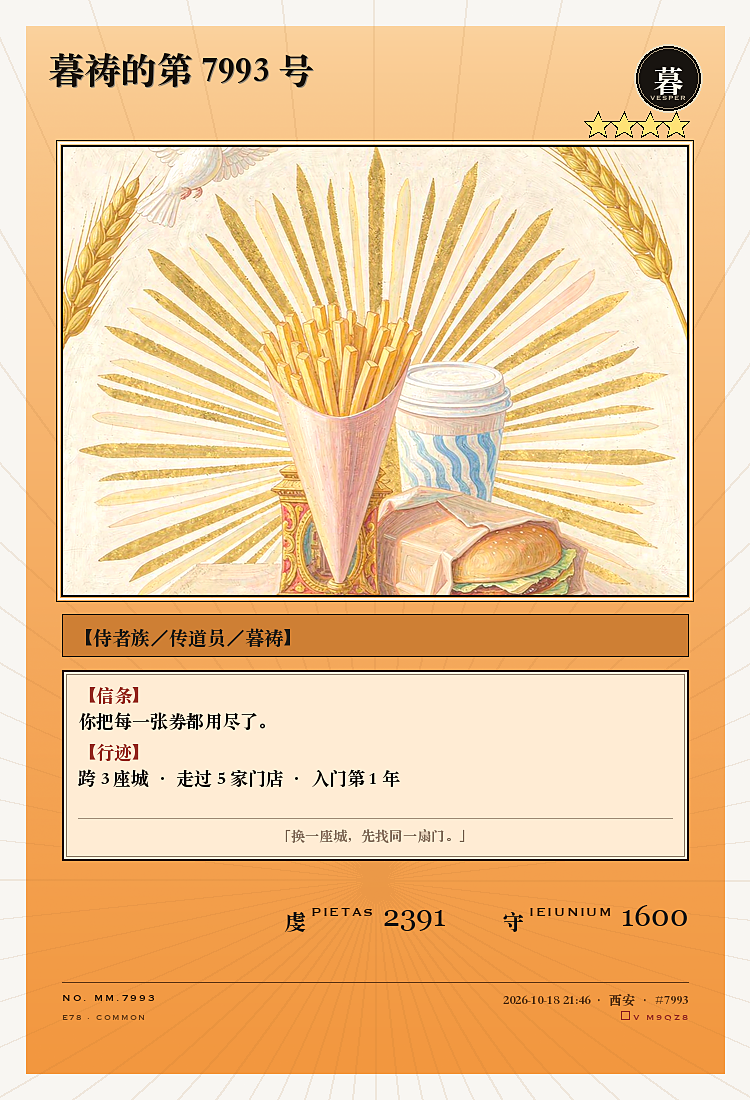
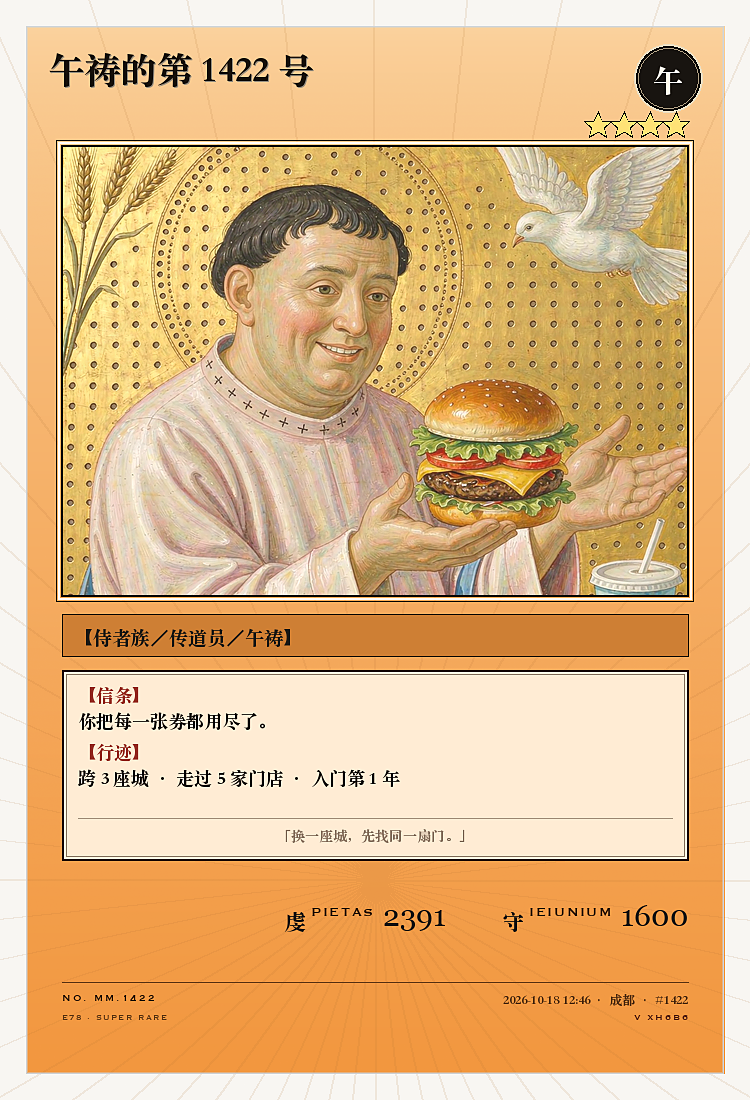
feat(card,sign): 请求式改为梗优先；底图按卡种配主体
卡面：
- 属性/卡名/溯源改用「主导时辰」的一单，修掉夜祷老客配午祷卡名的自相矛盾
- 底图查找改为 plate_{画派}_{角色} → plate_{画派}_still → plate_{画派}
- 新增珐琅人物/静物、湿壁画人物三张底图（去掉生成水印底部 9%）
- 六维：数值与单位分开算宽度，修掉 337kcal 糊在一起

暗号：
- ask 语料重写为 12 条玩笑（33–42 字），主句是笑话不是诉求
- 笑点按单轮换（种子取 last_order_at），不按周挂同一句
- 请求式只保留 自陈+笑点，数据槽让位；短码仍承担可复算
- T1 改为「若今日有余」措辞 + 免责短句

diff --git a/src/mcd_ordination/sign.py b/src/mcd_ordination/sign.py
@@ -88,7 +88,7 @@ KINDS = {
     "greet": {"cn": "问候", "lat": "Salutatio",
               "desc": "向门店打个招呼，不求任何东西"},
     "ask":   {"cn": "请求", "lat": "Petitio",
-              "desc": "创意地问一句能不能多给一点，默认零成本"},
+              "desc": "一句一本正经的玩笑，店员照做是彩蛋，不照做也成立"},
     "story": {"cn": "接龙", "lat": "Continuatio",
               "desc": "留半句话给店员，下次你再续写第二章"},
 }
@@ -102,20 +102,34 @@ BLESSINGS = [
     "这一带的灯，就你们这几盏还亮着",
 ]
 
-# S5b 请求：T0 零成本（默认） / T1 小成本（上限就是"一根薯条一块鸡块"这个量级）
+# S5b 请求：**这是全项目最需要"梗优先"的一格。**
+#
+# 设计取向（v3.4 重写）：请求式的首要目标不是"真的多拿一块鸡块"，
+# 而是让读的人笑一下、让发的人有面子。所以：
+#   · 主句永远是一个**笑话**，不是一个诉求
+#   · 就算店员什么都不做，这句话本身也成立、也值得截图
+#   · T0 默认请求的是"一个动作/一句批注"，成本为零
+#   · T1 才涉及实物，且必须"若今日有余"这种低压力措辞 + 免责短句
 ASKS_T0 = [
-    "可否在袋上画道拱门",
-    "可否对我说句麦门",
-    "可否把小票折个十字",
-    "可否在袋上写个麦字",
-    "可否在杯盖点一下",
-    "可否与我同念一声麦门",
+    "可否在袋上批注「已阅」，我回去好交差",
+    "可否在袋上写「此人已尽力」，我今天很需要",
+    "请在本单备注栏留一句判词，我好抄进教义",
+    "可否把番茄酱画成一颗星，我这单就封圣了",
+    "若这单出了错，请判我无罪",
+    "若见我站在门口发呆，请朝我点头，当作神迹",
+    "请务必假装不认识我，我在修行",
+    "可否用红笔圈一下我的名字，像教皇那样",
+    "可否在袋上画个勾，我拿回去当圣痕",
+    "请把这单当作一次小型封圣仪式，费用照付",
+    "这单若顺利，可否签个名，我要装裱",
+    "可否在袋上写「准予继续活着」，我今天靠这个",
 ]
 ASKS_T1 = [
-    "若方便，可否多一块麦乐鸡",
-    "若方便，可否多一根脆脆薯",
-    "若方便，可否多一包甜酸酱",
-    "若方便，可否把薯条装满一点",
+    "若今日神恩有余，可否多一块麦乐鸡",
+    "若今日圣物有剩，可否多一根脆脆薯",
+    "若锅底还剩，可否多给一勺新地",
+    "若正好方便，可否把薯条装满一点",
+    "若圣餐溢出，可否多一根薯条，我会记账",
 ]
 # 无条件附在 T1 后面：不加这句不许上线
 DISCLAIMER = "（若不方便，完全不必为难）"
@@ -282,7 +296,10 @@ def compile_sign(f: dict, uid: str, today: date, menu_today: list,
     blessing = BLESSINGS[h(uid, "bls", period) % len(BLESSINGS)]
 
     kind = pick_kind(f, uid, period, kind)
-    ask, ask_tier = pick_ask(f, uid, period, friendly, allow_t1)
+    # 请求式的笑点按【每一单】轮换：同一个笑话挂一周，笑点就死了。
+    # 种子取这一单的时间戳，所以同一单永远同一句，下一单必换。
+    ask_salt = f.get("last_order_at") or period if kind == "ask" else period
+    ask, ask_tier = pick_ask(f, uid, ask_salt, friendly, allow_t1)
 
     # 接龙：章节号只由本地账本决定，不参与哈希，避免"账本一改短码就变"
     story = story or {}
@@ -321,13 +338,12 @@ def compile_sign(f: dict, uid: str, today: date, menu_today: list,
     elif kind == "greet":
         short = f"麦门 {code}｜{vocation}｜{blessing}，麦门永生。"
     else:
-        tail = f"{ask}{DISCLAIMER if ask_tier == 'T1' else ''}。麦门永生。"
-        short = build(True, True, False) + "。" + tail
-        for a_, b_, c_ in ((True, False, False), (True, False, True),
-                           (False, False, False), (False, False, True)):
-            if len(short) <= REMARK_LIMIT:
-                break
-            short = build(a_, b_, c_) + "。" + tail
+        # 请求式刻意只保留"自陈 + 笑点"两个槽：
+        # 加圣物/行迹会让句子变成清单，笑点被稀释。短码仍然承担可复算。
+        tail = f"{ask}{DISCLAIMER if ask_tier == 'T1' else ''}。"
+        short = f"麦门 {code}｜{vocation}｜{tail}"
+        if len(short) > REMARK_LIMIT:          # 极端长自陈时，缩到只留暗号+笑点
+            short = f"麦门 {code}｜{tail}"
 
     # 极端情况下（长店名 + 长问候）仍超限：截到上限，绝不静默溢出
     if len(short) > REMARK_LIMIT:

diff --git a/src/mcd_ordination/deck.py b/src/mcd_ordination/deck.py
@@ -43,6 +43,29 @@ STAT_SIX = [
 ]
 
 
+def _bucket(hour: int) -> str:
+    for lo, hi, cn, _lat in ATTRS:
+        if lo <= hour <= hi:
+            return cn
+    return "午"
+
+
+def dominant_hour(orders: list) -> tuple[int, dict]:
+    """属性必须取「最常出现的时辰」，而不是最后一单的时辰。
+    否则会出现「午祷的第 6791 号」配一张深夜街景——卡面自己打自己。"""
+    from collections import Counter
+    cnt = Counter()
+    for o in orders[-200:]:
+        h = datetime.fromisoformat(o["placedAt"].replace("Z", "+00:00")).hour
+        cnt[_bucket(h)] += 1
+    want = cnt.most_common(1)[0][0] if cnt else "午"
+    rep = next((o for o in reversed(orders)
+                if _bucket(datetime.fromisoformat(
+                    o["placedAt"].replace("Z", "+00:00")).hour) == want), orders[-1])
+    hour = datetime.fromisoformat(rep["placedAt"].replace("Z", "+00:00")).hour
+    return hour, rep
+
+
 def attr_of(hour: int) -> tuple[str, str]:
     for lo, hi, cn, lat in ATTRS:
         if lo <= hour <= hi:
@@ -86,15 +109,16 @@ def build_deck(features: dict, canon_res: dict, piety_res: dict,
     """
     deck = []
     last = orders[-1]
-    hour = datetime.fromisoformat(last["placedAt"].replace("Z", "+00:00")).hour
+    # 代表单：主导时辰里最近的那一单。名字、属性、溯源、编号全部跟着它走
+    hour, rep = dominant_hour(orders)
     attr, attr_lat = attr_of(hour)
     rank = piety_res["rank"]
-    serial = serial_of(last["orderId"])
+    serial = serial_of(rep["orderId"])
 
     digest = str(S.h(uid, "deck-v1", season))
 
     # ---- ① 人物卡：信息重心是"这个人有多强"（星级 + 攻守）
-    g1 = G.draw(last["orderId"], uid, _flags(last, orders), piety_pct=piety_res["pct"])
+    g1 = G.draw(rep["orderId"], uid, _flags(rep, orders), piety_pct=piety_res["pct"])
     atk = 1200 + rank["level"] * 280 + int(features["purity"] * 400)
     dfn = 900 + rank["level"] * 160 + features["store_count"] * 12
     eff = []
@@ -116,7 +140,7 @@ def build_deck(features: dict, canon_res: dict, piety_res: dict,
             "kind_line": f"【侍者族／{rank['cn']}／{attr}祷】",
             "effects": eff,
             "atk": atk, "def": dfn, "serial": f"MM.{serial}",
-            "provenance": _prov(last),
+            "provenance": _prov(rep),
             "verify": g1["verify"],
             "flavor": "「" + _flavor(features, rank) + "」",
         },

diff --git a/src/mcd_ordination/render_png.py b/src/mcd_ordination/render_png.py
@@ -242,7 +242,7 @@ def attribute_badge(d, cx, cy, R, ch, lat, bright=False):
     d.text((cx - d.textlength(ch, font=fc) / 2, cy - 18), ch, font=fc, fill=(250, 244, 230))
     fl = font(F_LAT_CAP, 8)
     lw = tw(d, lat, fl, 0.8)
-    if lw <= 2 * R - 14:            # 放不下就省略，宁可没有，也不要压到圆边
+    if lw <= 2 * R - 24:            # 放不下就省略，宁可没有，也不要压到圆边
         letter(d, (cx - lw / 2, cy + 15), lat, fl, (200, 188, 164), tr=0.8)
 
 
@@ -327,10 +327,14 @@ def stat_grid(d, x, y, w, stats, ink, accent, rows=3, cols=2, row_h=46):
         for k in range(1, 5):
             tx = bx0 + (bx1 - bx0) * k / 5
             d.line([tx, by + 4, tx, by + 7], fill=(200, 186, 160), width=1)
+        # 数值与单位必须分开算宽度：原来单位固定在 cx+col_w-30，
+        # 三位数时数值会压到单位上，看起来像 "337kcal" 糊在一起
+        f_unit = font(F_LAT_SER, 11)
         vs = f"{val}"
+        uw = d.textlength(unit, font=f_unit)
         vw = d.textlength(vs, font=f_val)
-        d.text((cx + col_w - vw - 34, cy + 12), vs, font=f_val, fill=ink)
-        d.text((cx + col_w - 30, cy + 17), unit, font=font(F_LAT_SER, 11), fill=(120, 108, 92))
+        d.text((cx + col_w - uw, cy + 17), unit, font=f_unit, fill=(120, 108, 92))
+        d.text((cx + col_w - uw - vw - 6, cy + 12), vs, font=f_val, fill=ink)
 
 
 def footer(d, st, y, data, dark):
@@ -352,8 +356,7 @@ def footer(d, st, y, data, dark):
         vw = tw(d, vc, fv_, 1.8)
         letter(d, (W - 62 - vw, y + 30), vc, fv_,
                (150, 46, 36) if not st["foil"]["edge"] else mix(dark, (150, 46, 36), 0.35), tr=1.8)
-        d.rectangle([W - 62 - vw - 12, y + 29, W - 62 - vw - 4, y + 37],
-                    outline=(150, 46, 36), width=1)
+
 
 
 # ------------------------------------------------------------------ 版式

diff --git a/scripts/gen_sign_examples.py b/scripts/gen_sign_examples.py
@@ -30,8 +30,20 @@ def main():
                                story=SG.load_story(uid) if story else None)
 
     g = make("greet")
-    a0 = make("ask")
-    a1 = make("ask", allow_t1=True)
+
+    # 请求式的笑点按每一单轮换：换三个 last_order_at 就能看到三句不同的
+    asks = []
+    for stamp in ("2026-10-05T19:12:00+08:00", "2026-10-11T22:40:00+08:00",
+                  "2026-10-16T02:07:00+08:00"):
+        feats2 = dict(feats, last_order_at=stamp)
+        asks.append(SG.compile_sign(feats2, uid, date.today(), menu,
+                                    grace_id=top["id"], grace_creed=top["creed"],
+                                    kind="ask", story=SG.load_story(uid)))
+    a1 = machine = SG.compile_sign(dict(feats, last_order_at="2026-10-16T02:07:00+08:00"),
+                                   uid, date.today(), menu,
+                                   grace_id=top["id"], grace_creed=top["creed"],
+                                   kind="ask", allow_t1=True,
+                                   story=SG.load_story(uid))
     s1 = make("story")
     SG.append_story(uid, s1, "灯是给晚归的人留的")
     s2 = make("story")
@@ -52,12 +64,15 @@ def main():
 {g['short']}
 ```
 
-## 2. 请求 `ask` · T0 零成本（{a0['len']} 字）
+## 2. 请求 `ask` · T0 零成本（三句，按单轮换）
 
-默认档位，请求的是象征性动作：
+主句是玩笑，不是诉求：店员照做是彩蛋，不照做这句话本身也成立。
+同一个笑话不会挂一周——种子取这一单的时间戳，下一单必换。
 
 ```text
-{a0['short']}
+{asks[0]['short']}
+{asks[1]['short']}
+{asks[2]['short']}
 ```
 
 ## 3. 请求 `ask` · T1 小成本（{a1['len']} 字）

diff --git a/src/mcd_ordination/cli.py b/src/mcd_ordination/cli.py
@@ -96,8 +96,8 @@ def _render_png(out: Path, uid: str, card: dict, data: dict, st: dict) -> Path:
     from . import plates, render_png
 
     art_key = next((k for k, v in _art_items() if v is st["art"]), "stained")
-    asset = REPO / "assets" / "plates" / f"plate_{art_key}.png"
-    if asset.exists():
+    asset = _pick_plate(art_key, card["role"])
+    if asset:
         plate = str(asset)
     else:
         plate_dir = out / "_plates"
@@ -109,6 +109,23 @@ def _render_png(out: Path, uid: str, card: dict, data: dict, st: dict) -> Path:
     dst = out / f"card_{card['role']}.png"
     render_png.render(plate, str(dst), dict(data), st)
     return dst
+
+
+# 同一画派，不同卡种可以配不同主体：人物卡要有人，食物/行为卡要有一眼认得的物
+_PLATE_ALIAS = {"item": "still", "spell": "still"}
+
+
+def _pick_plate(art_key: str, role: str):
+    """按 > 具体到角色 > 同画派泛指 > 无 的顺序找底图；都没有就交给程序化底图"""
+    names = [f"plate_{art_key}_{role}.png"]
+    if role in _PLATE_ALIAS:
+        names.append(f"plate_{art_key}_{_PLATE_ALIAS[role]}.png")
+    names.append(f"plate_{art_key}.png")
+    for n in names:
+        p = REPO / "assets" / "plates" / n
+        if p.exists():
+            return p
+    return None
 
 
 def _art_items():

diff --git a/scripts/make_assets.py b/scripts/make_assets.py
@@ -111,6 +111,9 @@ def main():
 
     final = DOCS / "holo_demo.gif"
     shutil.move(gif, final)
+    webp = Path(gif).with_suffix(".webp")
+    if webp.exists():
+        shutil.move(str(webp), str(DOCS / "holo_demo.webp"))
     print(f"holo  -> {final.name}（{final.stat().st_size // 1024} KB，{note}）")
 
 

diff --git a/docs/DESIGN.md b/docs/DESIGN.md
@@ -17,7 +17,7 @@
 | English tagline | *Acta Maimen — write your own canon* |
 | 一句话钩子 | **你说你是麦门信徒。那你的教义，写下来了吗？** |
 | 核心机制 | 麦当劳用户行为 → 归纳行为倾向 → 编译提示词 → 即时生成卡证 → 抽卡定稀有度 → **编译专属暗号** → 线下互动 → 发帖回流 |
-| 文档版本 | **v3.3（2026-10-22）** |
+| 文档版本 | **v3.4（2026-10-22）** |
 | 代码基线 | `mcd-contest/cards/` 下的 `styles.py` / `gacha.py` / `canon.py` / `sign.py` / `render_card_v2.py` / `animate.py` / `demo_v3.py` |
 
 ## 0. v3.1 / v3.2 改动说明（改动前先读这一节）
@@ -82,7 +82,8 @@
 | v3.0 | 即时生成；全画派阳光化；抽卡机制 + 保底 + 验真码；五种卡四种版式；稀有卡动效 |
 | v3.1 | **去判定化重写**：中文名与钩子改主语；全文档「消费」→「用户行为」；新增 §4 七典归组 + 多命中裁决算法 + 三处输出规范 |
 | v3.2 | **暗号重写**：8 槽位行为编译（原为单一固定模板）；三枚暗号（常规/节庆/限定）；请求零成本档位；短码公开可复算；双向应答 + 友好门店地图 |
-| **v3.3（当前）** | **暗号升为并列产出**：三种体裁（问候/请求/接龙）+ 接龙账本（本地连载）+ 订单备注能力探测（auto/manual） |
+| v3.3 | **暗号升为并列产出**：三种体裁（问候/请求/接龙）+ 接龙账本（本地连载）+ 订单备注能力探测（auto/manual） |
+| **v3.4（当前）** | **请求式改为"梗优先"**（主句是笑话不是诉求，笑点按单轮换）；底图改为按卡种配主体（人物卡配人、食物/行为卡配静物）；卡面属性改用主导时辰，修掉"夜祷配午祷"的自相矛盾 |
 
 ---
 
@@ -711,8 +712,20 @@ s["expires"]   # 本周日 23:59 / 今日 23:59 / 永久
 | 体裁 | id | 收尾槽（S5/S6） | 用途 | 对店员的要求 |
 |---|---|---|---|---|
 | **问候** | `greet` | S5 = 祝词，S6 = 不强求回应 | 只是想打个招呼，什么都不求 | 看见即可 |
-| **请求** | `ask` | S5 = 请求（T0 零成本 / T1 小成本），S6 = 免责 | 创意地问一句能不能多给一点 | 一句话或一个动作 |
+| **请求** | `ask` | S5 = 玩笑（T0 零成本 / T1 小成本），S6 = 免责 | 说一句一本正经的离谱话 | 一句话或一个动作 |
 | **接龙** | `story` | S5 = 半句，S6 = 请把后半句写完 | 把一次交易变成一段可续写的故事 | **写一句话** |
+
+#### 5.10.1 请求式为什么必须"梗优先"（v3.4）
+
+第一版写的是「若方便，可否多一块麦乐鸡」。它的问题不是不礼貌，是**不好笑**：读起来像伸手，发出去像讨要，截图价值接近零。而这一体裁唯一的价值就是被转发。
+
+改法有三条，缺一条就退化成索要：
+
+1. **主句是笑话，不是诉求。** 「请把这单当作一次小型封圣仪式，费用照付」——店员什么都不做，这句话也已经成立。
+2. **T0 请求的是"零成本的动作"**：一个批注、一个勾、一句判词、一颗番茄酱画的星。不碰实物。
+3. **笑点按单轮换。** 种子取这一单的时间戳（`last_order_at`），同一单永远同一句，下一单必换。同一个笑话挂一周，笑点就死了。
+
+代价要写清楚：请求式为了给笑点让位，**砍掉了 S2 圣物 / S3 行迹 / S8 圣历**三个槽，长度从 58 字降到 33–42 字。可复算性不受影响——短码仍在，它只由 7 项公开量决定。
 
 `auto` 的裁决规则只有两条，刻意保持简单：**久别（≥30 天）或生日 → 问候；其余 → 接龙。**
 理由：接龙的二次互动率最高，问候用于"重新出现"这种需要低压力破冰的场合；请求是唯一可能给门店增加成本的体裁，所以**永不自动选中**。
@@ -1433,4 +1446,5 @@ PAYLOAD = {
 12. **周更是个取舍，不是最优解。** 7 天是我取的平衡：永久不变会失去复访动力，每天变会失去身份感。如果用户反馈「我还没来得及用就过期了」，第一步应该改成 14 天，而不是改成每天。
 13. **友好门店地图有隐私外溢风险。** 单店样本 < 5 必须不展示，否则「某店只有 3 次投放」本身就泄露了谁去过。这一条在数据量小的时候最容易破功。
 14. **接龙会让"暗号"变成"内容"**。一旦连载起来，用户会期待有下一章，产品就从工具变成连载物。这是好事，但要提前想清楚：断更（比如用户三个月不来）比没有更伤人。建议第 1 章就把话说明白——「这半句，什么时候接都行」。
-15. **备注字段不存在时的体验落差最大。** 用户勾了"写入备注"，结果只拿到一段要自己粘的文本，会觉得"这功能没做完"。所以 **UI 文案必须在勾选前就说明**（"将生成可粘贴的备注文本"），而不是事后解释。
+15. **笑话是会磨损的。** 12 条 T0 语料按单轮换，一个每周来三次的人大约三周就会看全。**这不是 bug，是内容供给问题**：要么扩充语料到 50 条以上，要么允许用户自己投稿一句（投稿本身又是一次传播）。第一版先别做 UGC，但要在 README 里明说"语料会重复"。
+16. **备注字段不存在时的体验落差最大。** 用户勾了"写入备注"，结果只拿到一段要自己粘的文本，会觉得"这功能没做完"。所以 **UI 文案必须在勾选前就说明**（"将生成可粘贴的备注文本"），而不是事后解释。

diff --git a/docs/samples/sign_examples.md b/docs/samples/sign_examples.md
@@ -14,20 +14,23 @@
 麦门 Z2QDQW｜我常在打烊之后受召｜愿这个点还站着的人都有热的东西吃，麦门永生。
 ```
 
-## 2. 请求 `ask` · T0 零成本（58 字）
+## 2. 请求 `ask` · T0 零成本（三句，按单轮换）
 
-默认档位，请求的是象征性动作：
+主句是玩笑，不是诉求：店员照做是彩蛋，不照做这句话本身也成立。
+同一个笑话不会挂一周——种子取这一单的时间戳，下一单必换。
 
 ```text
-麦门 Z2QDQW｜我常在打烊之后受召｜麦辣鸡腿堡｜专一 90%｜今日圣体：板烧鸡腿堡。可否对我说句麦门。麦门永生。
+麦门 Z2QDQW｜我常在打烊之后受召｜请把这单当作一次小型封圣仪式，费用照付。
+麦门 Z2QDQW｜我常在打烊之后受召｜可否在袋上写「此人已尽力」，我今天很需要。
+麦门 Z2QDQW｜我常在打烊之后受召｜请在本单备注栏留一句判词，我好抄进教义。
 ```
 
-## 3. 请求 `ask` · T1 小成本（57 字）
+## 3. 请求 `ask` · T1 小成本（49 字）
 
 只有用户显式勾选（或生日/里程碑/友好门店）才出现，且必须带免责句：
 
 ```text
-麦门 Z2QDQW｜我常在打烊之后受召｜麦辣鸡腿堡。若方便，可否多一根脆脆薯（若不方便，完全不必为难）。麦门永生。
+麦门 Z2QDQW｜我常在打烊之后受召｜若正好方便，可否把薯条装满一点（若不方便，完全不必为难）。
 ```
 
 ## 4. 接龙 `story` · 第 1 章（43 字）
